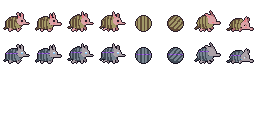
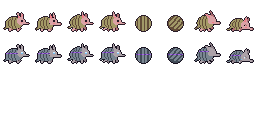
콩이 서기 칸의 등딱지 띠를 "(" 곡선으로 새로 긋기(0217)
원본의 띠는 높이 약 100px에 10px만 휘어 게임 크기에선 곧은 세로줄로 남았다. 서기·걷기·맞음·쓰러짐 칸은
원본에서 옮기지 않고 등딱지 세 자리(BAND_AT)에 양 끝이 머리 쪽으로 1.5px 휘는 곡선을 긋는다. 칸마다 같은
자리라 걷기에서 띠 수가 바뀌어 깜빡이지 않는다. 공의 띠(원본도 곧은 줄)는 그대로 옮긴다.

Claude-Session: https://claude.ai/code/session_01VNXEyeHwdhsn4oiHYXtNpM

diff --git a/tools/art/kongi_ai.py b/tools/art/kongi_ai.py
@@ -15,6 +15,7 @@
 """
 import colorsys
 import sys
+from collections import Counter
 from pathlib import Path
 
 import numpy as np
@@ -49,6 +50,7 @@ TAINT_SHELL = [(44, 50, 60), (66, 76, 88), (92, 104, 116), (122, 134, 146), (160
 TAINT_OUTLINE = (24, 18, 32)
 EYE_BLUE = [(40, 90, 140), (120, 190, 240), (210, 240, 255)]
 THREAD = [(96, 52, 160), (168, 110, 230)]
+BAND_INK = (92, 70, 50)          # 원본 띠의 갈색(서기 칸 팔레트에서 가장 가까운 색을 쓴다)
 
 
 def lum(c):
@@ -115,10 +117,10 @@ def thread(cell):
 
 
 def bands(cell, box, pal):
-    """등딱지 띠를 원본에서 다시 옮긴다. 띠는 원본에서 4px 굵기의 갈색 줄이라 칸 배율(블록 9~11px)로 줄이면 흩어진 점이나
-    민무늬가 된다(서기 칸은 점 몇 개, 공 A는 민무늬) — 콩이의 표지가 사라진다. 원본의 띠 점(밝기 50~125의 갈색: 붉은 기가
-    푸른 기보다 25 넘게 많다)을 몸의 테두리 상자끼리 맞춰 옮기고, 칸에서 등딱지 쪽 점(분홍이 아닌 것, 외곽선 아님)에만
-    칠한다. 띠 색 = 서기 칸 팔레트에서 가장 가까운 색(공 A 칸에는 바탕색 하나뿐이라 제 칸에서 고르면 안 보인다)."""
+    """공의 띠를 원본에서 다시 옮긴다. 띠는 원본에서 4px 굵기의 갈색 줄이라 공 배율(블록 약 11px)로 줄이면 사라진다(공 A는
+    민무늬가 됐다). 원본의 띠 점(밝기 50~125의 갈색: 붉은 기가 푸른 기보다 25 넘게 많다)을 몸의 테두리 상자끼리 맞춰 옮기고,
+    외곽선 안쪽에만 칠한다. 띠 색 = 서기 칸 팔레트에서 가장 가까운 색(공 A 칸에는 바탕색 하나뿐이라 제 칸에서 고르면 안
+    보인다). 공의 띠는 원본도 곧은 줄(세로·비스듬)이라 그대로 옮긴다 — 서기 칸은 `arcs`."""
     src = np.asarray(Image.open(SRC).convert("RGB")).astype(int)
     x0, y0, x1, y1 = box
     r = src[y0:y1, x0:x1]
@@ -144,11 +146,53 @@ def bands(cell, box, pal):
         key = tuple(int(v) for v in cell[y, x, :3])
         if not on[y, x] or key == OUTLINE:
             continue
-        h, _, _ = colorsys.rgb_to_hls(*(v / 255 for v in key))
-        if h < 0.07 or h > 0.85:                                # 분홍 살갗(머리·발)은 그대로
-            continue
         out[y, x, :3] = ink
     return out
+
+
+BAND_AT = (0.18, 0.48, 0.8)     # 등딱지 가운데 줄에서 꼬리 쪽 테두리(0) ~ 머리 쪽 끝(1) 사이 띠 자리
+BAND_BOW = 1.5                  # 띠 양 끝이 머리 쪽으로 휘는 폭(px). 띠 사이가 3px이라 2면 이웃 띠와 엉킨다
+
+
+def arcs(cell, ink):
+    """서기 칸의 등딱지 띠: 원본에서 옮기면(`bands`처럼) 띠가 흩어지거나 거의 곧은 세로줄로 남는다 — 원본의 띠도 높이 약
+    100px에 10px만 휘어 게임 크기(띠 높이 10px)에선 1px 꺾임도 안 된다(사장: "띠가 곡선이 아닌 직선처럼 보인다"). 그래서
+    줄인 칸에 띠를 새로 긋는다: 등딱지(분홍·외곽선이 아닌 가장 많은 색) 가운데 줄에서 `BAND_AT` 자리마다, 그 세로 칸의
+    등딱지 위~아래를 따라 원본과 같은 "(" 모양(가운데가 꼬리 쪽으로 불룩, 양 끝이 머리 쪽으로 `BAND_BOW`px)으로.
+    칸마다 같은 자리라 서기·걷기를 오갈 때 띠 수가 바뀌어 깜빡이지 않는다. 줄이며 생긴 띠 색 점은 먼저 등딱지 색으로 덮는다
+    (줄마다 꼬리 쪽 맨 끝 점 = 테두리 그늘은 둔다)."""
+    out = cell.copy()
+    on = cell[..., 3] > 0
+    rgb = cell[..., :3].astype(int)
+    count = Counter(tuple(int(v) for v in rgb[y, x]) for y, x in zip(*np.nonzero(on)))
+    shell = max((c for c in count if c not in (OUTLINE, ink) and not pinkish(c)), key=lambda c: count[c])
+    S = on & (np.all(rgb == shell, -1) | np.all(rgb == ink, -1))
+    ys = np.nonzero(S.any(1))[0]
+    for y in ys:
+        row = np.nonzero(S[y])[0]
+        for x in row[1:]:
+            if tuple(int(v) for v in rgb[y, x]) == ink:
+                out[y, x, :3] = shell
+    mid = int(ys.min() + (ys.max() - ys.min()) * 0.5)
+    row = np.nonzero(S[mid])[0]
+    for f in BAND_AT:
+        xm = int(round(row.min() + (row.max() - row.min()) * f))
+        col = np.nonzero(S[:, xm])[0]
+        top = bot = int(col.min())
+        while bot + 1 < S.shape[0] and S[bot + 1, xm]:
+            bot += 1
+        half = max(1, (bot - top) / 2)
+        for y in range(top, bot + 1):
+            t = (y - (top + bot) / 2) / half
+            x = int(round(xm + BAND_BOW * t * t))
+            if S[y, x]:
+                out[y, x, :3] = ink
+    return out
+
+
+def pinkish(c):
+    h, _, _ = colorsys.rgb_to_hls(*(v / 255 for v in c))
+    return h < 0.07 or h > 0.85
 
 
 def build():
@@ -157,8 +201,11 @@ def build():
     cells = {k: seat(spr[k], CELL, FOOT) for k in ORDER}
     stand = cells["idle_a"]
     pal = {tuple(int(v) for v in p[:3]) for p in stand[stand[..., 3] > 0]} - {OUTLINE}
-    for k, box in zip(STAND + BALL, STAND_BOXES + BALL_BOXES):
+    for k, box in zip(BALL, BALL_BOXES):
         cells[k] = bands(cells[k], box, pal)
+    ink = min(pal, key=lambda c: sum((a - b) ** 2 for a, b in zip(c, BAND_INK)))
+    for k in STAND:
+        cells[k] = arcs(cells[k], ink)
     sheet = np.zeros((CELL * 4, CELL * len(ORDER), 4), np.uint8)
     for c, k in enumerate(ORDER):
         for r, cell in enumerate((cells[k], thread(taint(cells[k])))):

diff --git a/docs/decisions/0217-kongi-new-sprite.md b/docs/decisions/0217-kongi-new-sprite.md
@@ -10,7 +10,9 @@
 
 ## 옮기기(`tools/art/kongi_ai.py`, 공용 변환기 `sprite_ai`)
 - 블록 약 9px, 고른 격자 아님 → 원본 외곽선 걷기(`strip` 9) + 줄이기. **배율을 둘로**: 서기·걷기·맞음·쓰러짐은 외곽선 안 키 19(외곽선까지 20~21), 공 두 칸은 따로 지름 15(외곽선까지 16~17) — 실루엣에서 정한 크기.
-- **등딱지 띠 다시 옮기기(서기·공 모든 칸)**: 원본의 띠는 4px 굵기 갈색 줄이라 칸 배율(블록 9~11px)로 줄이면 서기 칸은 흩어진 점 몇 개, 공 A는 민무늬가 됐다 — 실루엣에서 표지로 꼽은 "띠 등딱지"가 사라진 것(사장: "등에 주름이 잘 보이지 않는다"). 원본의 띠 점(밝기 50~125의 갈색)을 몸의 테두리 상자끼리 맞춰 옮겨, 칸의 등딱지 쪽 점(분홍 살갗·외곽선 아님)에만 다시 칠한다. 띠 색은 서기 칸 팔레트에서 가장 가까운 색(공 A 칸에는 바탕색 하나뿐이라 제 칸에서 고르면 안 보였다). 이제 서기 칸 등에 띠 네댓 줄, 공 A는 세로 띠, 공 B는 비스듬한 띠 — 구를 때 두 칸을 번갈아 띠가 돈다.
+- **등딱지 띠**: 원본의 띠는 4px 굵기 갈색 줄이라 칸 배율(블록 9~11px)로 줄이면 서기 칸은 흩어진 점 몇 개, 공 A는 민무늬가 됐다 — 실루엣에서 표지로 꼽은 "띠 등딱지"가 사라진 것(사장: "등에 주름이 잘 보이지 않는다").
+  - 공(`bands`): 원본의 띠 점(밝기 50~125의 갈색)을 몸의 테두리 상자끼리 맞춰 옮겨 외곽선 안쪽에 다시 칠한다. 공의 띠는 원본도 곧은 줄(공 A 세로, 공 B 비스듬)이라 그대로 — 구를 때 두 칸을 번갈아 띠가 돈다. 띠 색은 서기 칸 팔레트에서 가장 가까운 색(공 A 칸에는 바탕색 하나뿐이라 제 칸에서 고르면 안 보였다).
+  - 서기·걷기·맞음·쓰러짐(`arcs`): 같은 식으로 옮겼더니 띠는 보였지만 거의 곧은 세로줄이었다(사장: "띠가 곡선이 아닌 직선처럼 보인다"). 원본의 띠를 재 보니 높이 약 100px에 10px만 휜다 — 게임 크기(띠 높이 10px)에선 1px 꺾임도 안 된다. 그래서 옮기지 않고 줄인 칸에 **띠를 새로 긋는다**: 등딱지 가운데 줄의 꼬리 쪽 테두리~머리 쪽 끝 사이 `BAND_AT`(0.18·0.48·0.8) 세 자리에서, 그 세로 칸의 등딱지 위~아래를 따라 원본과 같은 "(" 모양(가운데가 꼬리 쪽으로 불룩, 양 끝이 머리 쪽으로 `BAND_BOW` 1.5px — 원본보다 과장). 띠 사이가 3px이라 2px 휘면 이웃 띠와 엉켰다. 칸마다 같은 자리라 서기·걷기를 오갈 때 띠 수가 바뀌지 않는다(원본에서 옮기면 칸마다 셋·넷으로 달라 깜빡였다). 줄이며 생긴 띠 색 점은 먼저 등딱지 색으로 덮는다.
 - 칸 40이 아니라 32(발바닥 30): 가장 긴 맞음 칸도 32 안에 든다.
 - 줄 0 돌아온 콩이, 줄 1 **물든 콩이 = 줄 0의 색 바꾸기**(초상화 `kongi_tainted_glare`: 분홍 살갗·귀 → 회색 모브 5단, 올리브 등딱지 → 푸른 회색 5단, 눈 → 옅은 파랑으로 빛나고 맨 위 점이 가장 밝다) + 몸을 가로지르는 보라 실 한 가닥(코드, 서기는 얼굴 앞쪽 45%를 비우고 — 35%면 눈에 닿았다 — 공은 가운데 줄 전체). 줄 2·3 흰 실루엣.
 - 눈 찾기: 보리처럼 "흰 빛점 둘레의 어두운 점"으로 찾으려 했으나 32칸에서 빛점이 사라졌다. 눈은 외곽선보다 조금 더 어두운 제 색으로 오므로 **몸 앞쪽 45%·키의 35~75% 줄 안의 아주 어두운 점(외곽선 색 아님)**으로 찾는다(귀 속 그늘·발가락이 줄 밖으로 빠진다).

diff --git a/docs/phase-1-combat-prototype.md b/docs/phase-1-combat-prototype.md
@@ -183,7 +183,7 @@
 - [ ] 쓰러짐의 대가(0210, 개발판, 사장 "0.4.x에서 죽었을 때의 디메리트가 별로 없다는 의견"): 쉼터 뒤 실뿌리 셋(HUD 체력 아래) — 넷째로 쓰러지면 마을로, 길의 주인은 쓰러져도 남는다, 맡기지 않은 반딧불은 다 잃는다. 한 런을 돌아 보며 너무 가혹한지
 - [x] C3. **Naïl 새 옷**(0206, 사장 "좋아 이걸로 하자"): 실루엣 시안 1 몸 + 둥근 시트의 눈·볼(`nail_s1_v2`) + 동작 시트 B(`nail_s1_v2_b`), 몸 16px·칸 24, 분홍 손발, 걷기 앞발 흔들기(위아래 + 얼굴과 선), 숨쉬기 두 칸은 한 그림에서. 걷기 넷의 눈을 서기 눈 하나로(0212). 파 내려가기 그림(`dig.py`)도 목도리를 둘렀다
 - [ ] C3. 모모·도토 새 그림(개발판, 0206): 보스(물든 모모 보라·초록 눈·시든 꽃 / 물든 도토 회보라·호박색 눈)·플레이어·마을·컷씬에서 크기·꽃·모자·깡충·차기·던지기가 읽히는지. 개발 "모모: 아레나"로 모모를 바로 움직여 본다. 몸의 해 그림자는 위아래 1px 메움(0208, 도토 꼬리·머리 그림자가 갈라졌다)
-- [ ] C4. 잡몹 열·보스 다섯·이웃 — **보리(들쥐 대장) 새 그림 들어감**(0216, 개발판: 40칸, 물든 대장은 색 바꾸기 + 목의 보라 실), **콩이 새 그림 들어감**(0217, 개발판: 32칸, 공 두 칸은 따로 배율 + 등딱지 띠를 원본에서 다시 옮기기, 물든 콩이는 색 바꾸기 + 빛나는 파란 눈 + 보라 실). 다음은 토끼풀·잡몹
+- [ ] C4. 잡몹 열·보스 다섯·이웃 — **보리(들쥐 대장) 새 그림 들어감**(0216, 개발판: 40칸, 물든 대장은 색 바꾸기 + 목의 보라 실), **콩이 새 그림 들어감**(0217, 개발판: 32칸, 공 두 칸은 따로 배율 + 공의 띠는 원본에서 옮기고 서기 칸의 띠는 "(" 곡선으로 새로 긋기, 물든 콩이는 색 바꾸기 + 빛나는 파란 눈 + 보라 실). 다음은 토끼풀·잡몹
 - [ ] **박자 2타·부술 것 표시**(0205): 보통으로 톡 눌러 박자에 2타·3타가 이어지는지(무기마다), 굴에서 부술 것(흙더미·뿌리혹·돌무더기·실뭉치)이 외곽선·금·반짝으로 바로 보이는지
 - [ ] **엔딩 뒤 마을로 올라오기**(0204, 사장 "할매 이후 지상 마을로 가는 게 안 보인다"): 개발 → "마을로 올라오기"로 130m → 0m 단면·뿌리 길 곁 튀어나오기·1초 뒤 포포 한마디의 길이와 손맛
 - [ ] D. 도토로 런·새 그림 판정(사장)
